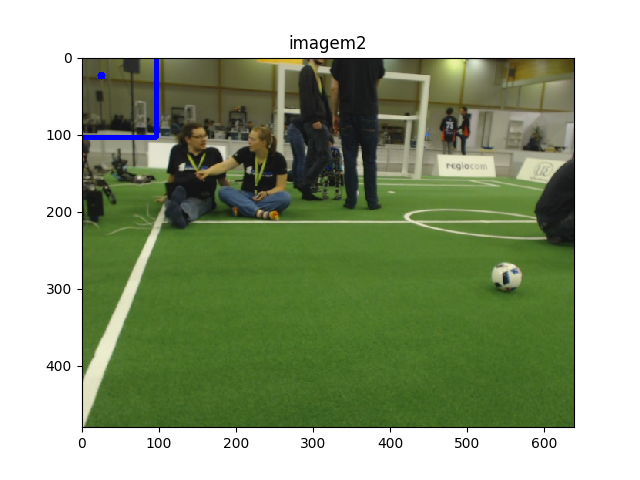
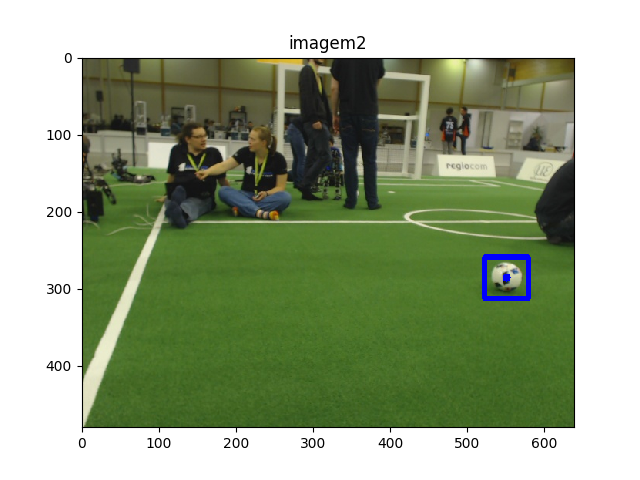
Fix resize function

Changed region(s): [[0.75, 0.5312, 0.8438, 0.625], [0.125, 0.125, 0.25, 0.3125]]

diff --git a/computer_vision_with_rnc/code/yolo_detector.py b/computer_vision_with_rnc/code/yolo_detector.py
@@ -53,7 +53,7 @@ class YoloDetector:
         :return: image suitable for use in the neural network.
         :rtype: NumPy 4-dimensional array with dimensions (1, 120, 160, 3).
         """
-        image = cv2.resize(image, (120, 160), interpolation=cv2.INTER_AREA)
+        image = cv2.resize(image, (160, 120), interpolation=cv2.INTER_AREA)
         image = np.array(image) / 255.0
         image = np.reshape(image, (1, 120, 160, 3))
         return image
@@ -74,8 +74,6 @@ class YoloDetector:
         output = np.reshape(output, (15, 20, 10))  # reshaping to remove the first dimension
 
         max_ball_prob = 0
-        max_ball_row_idx = 0
-        max_ball_col_idx = 0
 
         max_cross_first_prob = 0
         max_cross_first_row_idx = 0
@@ -91,15 +89,12 @@ class YoloDetector:
                 # treat ball case:
                 ball_prob = sigmoid(elm[0])
                 if ball_prob > max_ball_prob:
-                    x_ball = elm_idx + sigmoid(elm[1]) * coord_scale
-                    y_ball = row_idx + sigmoid(elm[2]) * coord_scale
+                    x_ball = (elm_idx + sigmoid(elm[1]) )* coord_scale
+                    y_ball = (row_idx + sigmoid(elm[2]) )* coord_scale
                     w_ball = bb_scale * 5 * np.exp(elm[3])
                     h_ball = bb_scale * 5 * np.exp(elm[4])
                     ball_detection = (ball_prob, x_ball, y_ball, w_ball, h_ball)
                     max_ball_prob = ball_prob
-                    # max_ball_prob = ball_prob
-                    # max_ball_row_idx = row_idx
-                    # max_ball_col_idx = elm_idx
 
                 # treat crossbar case:
                 # ball_prob = sigmoid(elm[5])
